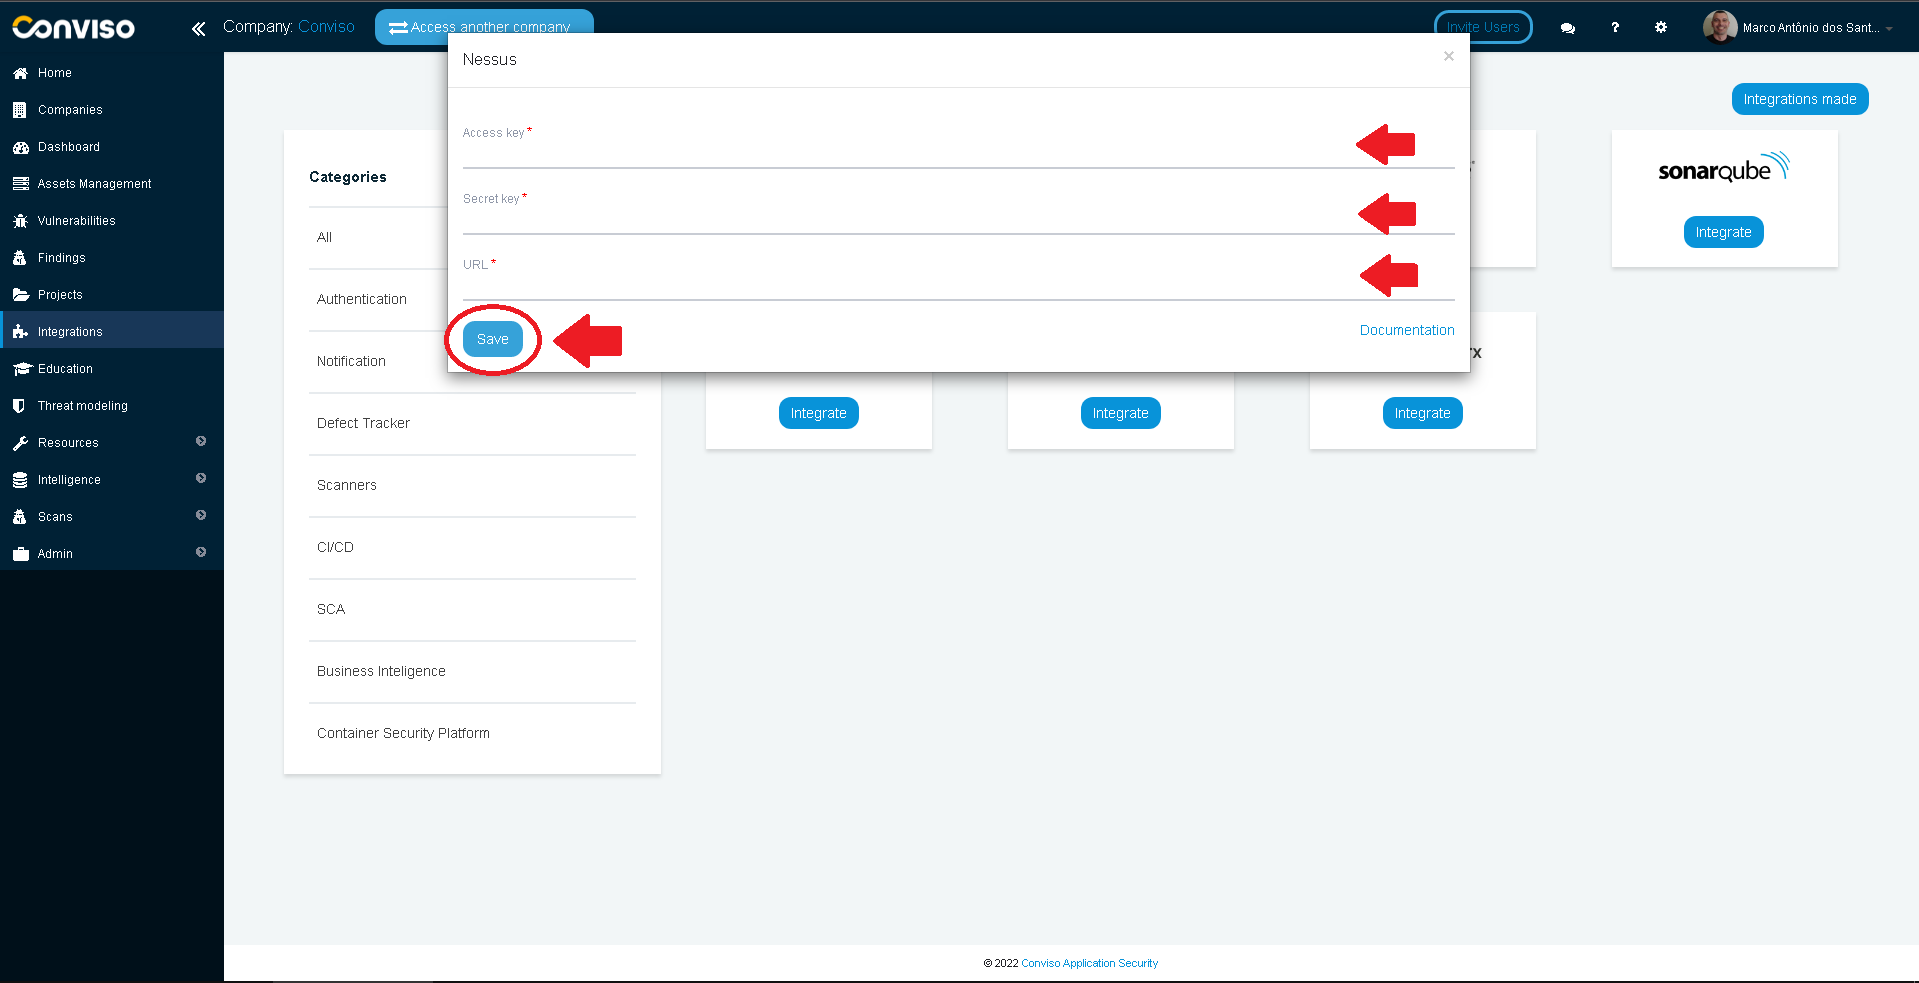
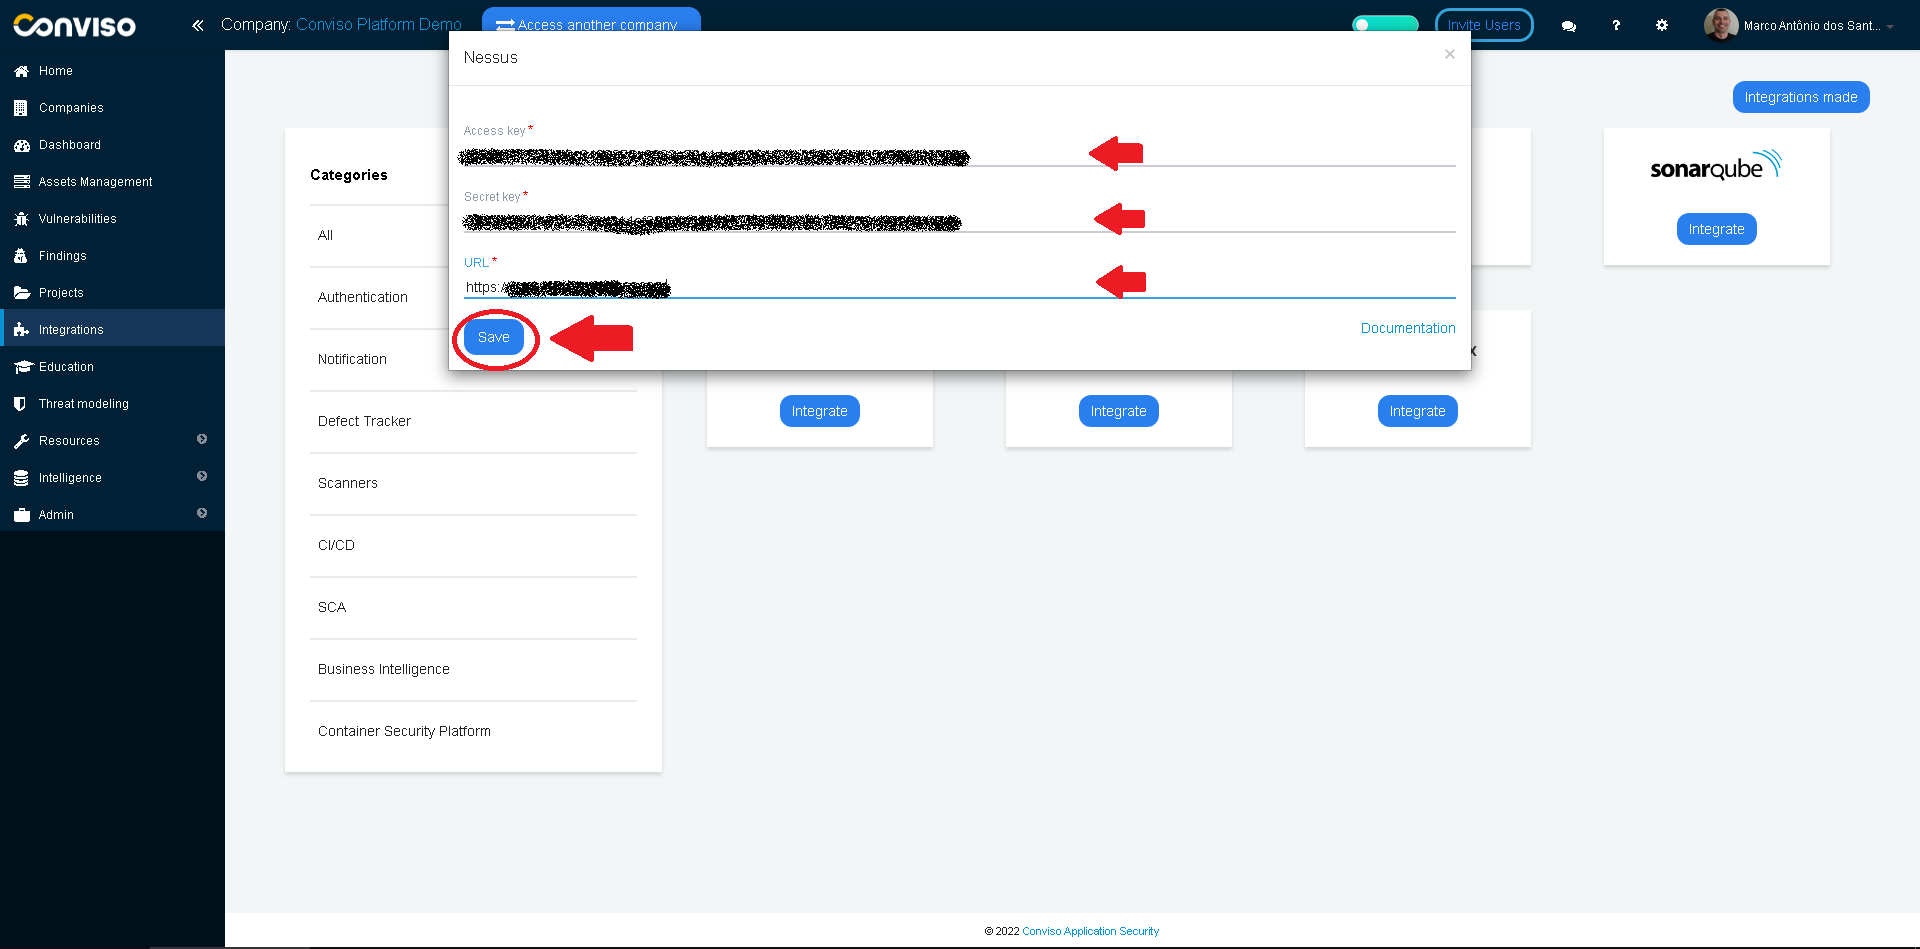
Adicionado doc integração Nessus

diff --git a/sidebars.js b/sidebars.js
@@ -137,7 +137,7 @@ module.exports = {
                   'integrations/checkmarx',
                   'integrations/dast',
                   'integrations/fortify',
-                  //'integrations/nessus',
+                  'integrations/nessus',
                   'integrations/qualys',
                   'integrations/sonarcloud',
                   'integrations/sonarqube',

diff --git a/docs/integrations/nessus.md b/docs/integrations/nessus.md
@@ -82,7 +82,7 @@ On the main menu to the left, click on **Integrations**. At the panel to the rig
 
 </div>
 
-Fill the **Access Key**, **Secret Key** and **URL** with data retrieved from your Nessus instance. When done filling the form, click on the **Save** button to store your integration configuration setting:
+Fill the **Access Key**, **Secret Key** and **URL** with data retrieved from your Nessus instance. When done filling the form, click on the **Save** button:
 
 <div style={{textAlign: 'center'}}>
 
@@ -90,3 +90,44 @@ Fill the **Access Key**, **Secret Key** and **URL** with data retrieved from you
 
 </div>
 
+Now you have to create the Nessus Scans and Conviso Platform Assets mappings. Choose from the list **External Projects** the Nessus scans that will be related to the Conviso Platform **Assets**. If you need to associate more than one scan to assets, click on the **Add external projects** and do the association. When done mapping all of your Nessus scans to the Conviso Platform Assets, click on the **Save** button:
+
+<div style={{textAlign: 'center'}}>
+
+![img](../../static/img/nessus-img7.png)
+
+</div>
+
+## Importing Nessus Issues to Conviso Platform
+
+At the left main Menu, choose **Assets Management**. On the right panel, select the asset you want to manage:
+
+<div style={{textAlign: 'center'}}>
+
+![img](../../static/img/nessus-img8.png)
+
+</div>
+
+Click on the button **Actions** and select the **Import Nessus Issues** from the drop-down list:
+
+<div style={{textAlign: 'center'}}>
+
+![img](../../static/img/nessus-img9.png)
+
+</div>
+
+Click on the **Confirm** button to start importing Nessus issues to Conviso Platform:
+
+<div style={{textAlign: 'center'}}>
+
+![img](../../static/img/nessus-img10.png)
+
+</div>
+
+You may find the imported issues from Nessus by clicking on the **Findings** menu option on the main left menu panel:
+
+<div style={{textAlign: 'center'}}>
+
+![img](../../static/img/nessus-img11.png)
+
+</div>
